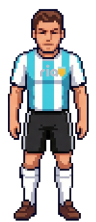
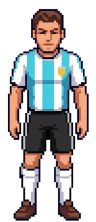
the tilt matches the actual tilt

Changed region(s): [[0.4062, 0.2703, 0.625, 0.3514]]

diff --git a/game3.html b/game3.html
@@ -218,12 +218,9 @@
         text-shadow: 0 2px 0 rgba(0, 0, 0, 0.6);
       }
       .tutorial[hidden] { display: none; }
-      .tut-phone { width: 56px; height: 56px; animation: tiltPhone 1.7s ease-in-out infinite; }
+      /* Rotation is set in JS from the live device tilt (see the loop). */
+      .tut-phone { width: 56px; height: 56px; transition: transform 0.06s linear; }
       .tut-phone svg { width: 100%; height: 100%; display: block; shape-rendering: crispEdges; }
-      @keyframes tiltPhone {
-        0%, 100% { transform: rotate(-24deg); }
-        50%      { transform: rotate(24deg); }
-      }
       .tut-text { margin-top: 18px; font-size: 12px; letter-spacing: 0.06em; }
       #tutorial-start {
         margin-top: 28px;
@@ -497,7 +494,7 @@
 
       <!-- How-to-play tilt demo (mobile, only when motion is allowed). -->
       <div class="tutorial" id="tutorial" hidden>
-        <div class="tut-phone">
+        <div class="tut-phone" id="tut-phone">
           <svg viewBox="0 0 16 24">
             <rect x="2" y="1" width="12" height="22" fill="#ffffff"/>
             <rect x="3" y="3" width="10" height="16" fill="#16284f"/>
@@ -685,6 +682,7 @@
         btnSound: document.getElementById("btn-sound"),
         btnPause: document.getElementById("btn-pause"),
         tutorial: document.getElementById("tutorial"),
+        tutPhone: document.getElementById("tut-phone"),
         tutorialStart: document.getElementById("tutorial-start"),
         hint: document.getElementById("hint"),
         gameover: document.getElementById("gameover"),
@@ -1668,6 +1666,10 @@
             tickBall(dt);
           } else if (inTutorial) {
             tickPlayer(dt); // demo: player follows tilt, no ball yet
+            // Rotate the phone icon by the actual tilt (1:1, clamped) so it
+            // matches how much the player is tilting / how the player moves.
+            const deg = Math.max(-35, Math.min(35, tiltDelta));
+            ui.tutPhone.style.transform = `rotate(${deg}deg)`;
           }
           updatePlayerAnim(dt);
         }
@@ -1713,6 +1715,8 @@
       function startTutorial() {
         inTutorial = true;
         player.x = W / 2;
+        tiltZero = null; // calibrate rest angle to how they're holding it now
+        tiltDelta = 0;
         ui.hint.style.opacity = "0";
         ui.tutorial.hidden = false;
         ui.tutorialStart.hidden = true;